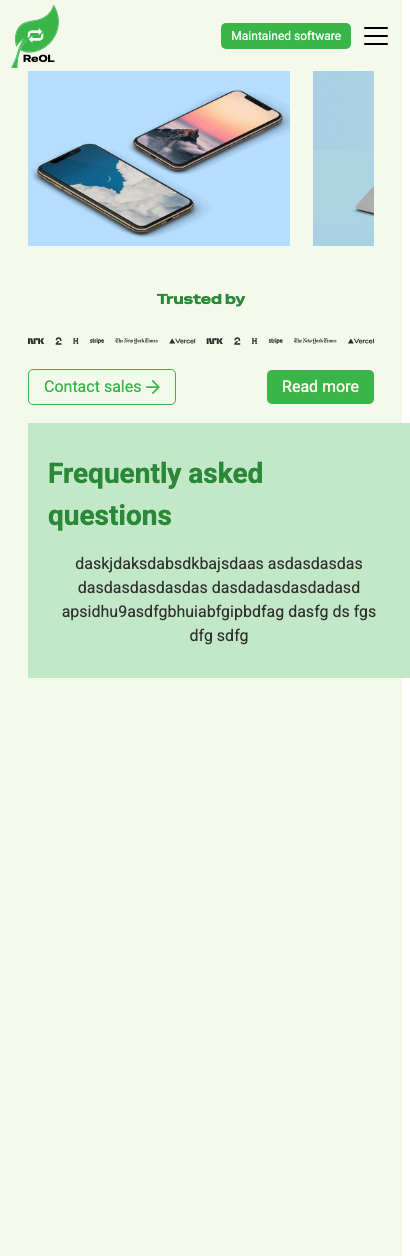
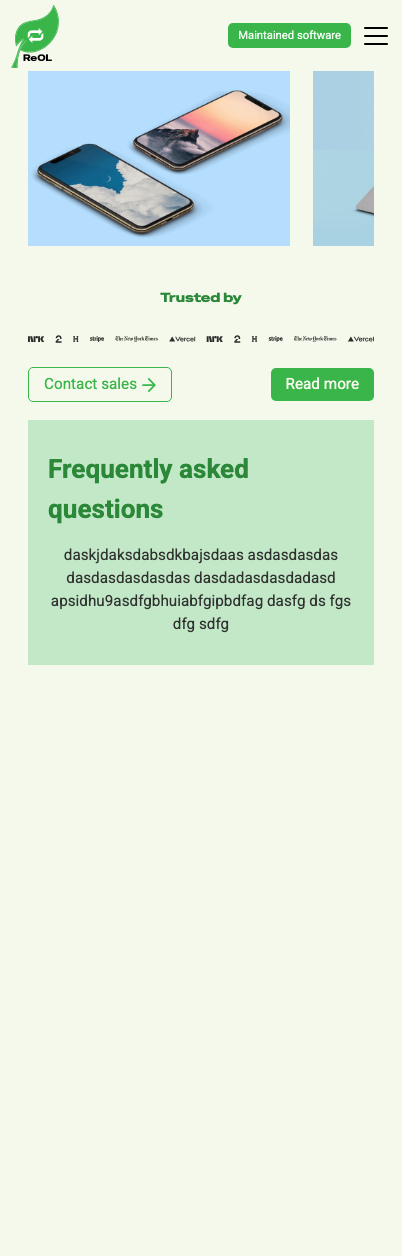
fix: responsive FAQ box with clamp font sizes

diff --git a/app/app.css b/app/app.css
@@ -8,6 +8,13 @@
   --font-body: "Roboto", sans-serif;
   --font-heading-condensed: "Roboto Condensed", sans-serif;
 
+  --text-xs: clamp(10px, 2.8vw, 12px);
+  --text-sm: clamp(12px, 3.2vw, 14px);
+  --text-base: clamp(14px, 3.8vw, 16px);
+  --text-heading-lg: clamp(22px, 7vw, 29px);
+  --text-logo-sm: clamp(8px, 2.3vw, 10.07px);
+  --text-faq-heading: clamp(22px, 6.5vw, 28px);
+
   --color-green-light: #F5F9EB;
   --color-green-normal: #39B54A;
   --color-green-dark: #2B8838;

diff --git a/app/home/components/faq.tsx b/app/home/components/faq.tsx
@@ -1,10 +1,10 @@
 export default function Faq() {
   return (
-    <section className="mx-auto flex w-[382px] flex-col items-center gap-[15px] bg-green-light-active px-[20px] py-[30px]">
-      <h2 className="font-body text-[28px] font-bold text-green-dark">
+    <section className="mx-auto flex w-full max-w-[382px] flex-col items-center gap-[15px] bg-green-light-active px-[20px] py-[30px]">
+      <h2 className="font-body text-faq-heading font-bold text-green-dark">
         Frequently asked questions
       </h2>
-      <p className="w-[329.95px] text-center font-body text-base text-font-muted">
+      <p className="w-full text-center font-body text-base text-font-muted">
         daskjdaksdabsdkbajsdaas asdasdasdas dasdasdasdasdas dasdadasdasdadasd apsidhu9asdfgbhuiabfgipbdfag dasfg ds fgs dfg sdfg
       </p>
     </section>

diff --git a/app/home/components/header.tsx b/app/home/components/header.tsx
@@ -20,7 +20,7 @@ export default function Header({ onMenuToggle }: HeaderProps) {
             style={{ width: 20.13, height: 20.13, left: 15.43, top: 23.49 }}
           />
           <span
-            className="absolute font-logo text-[10.07px] leading-none text-black"
+            className="absolute font-logo text-logo-sm leading-none text-black"
             style={{ left: 12.92, top: 52.3 }}
           >
             ReOL

diff --git a/app/home/components/info-card.tsx b/app/home/components/info-card.tsx
@@ -6,7 +6,7 @@ interface InfoCardProps {
 export default function InfoCard({ title, body }: InfoCardProps) {
   return (
     <div className="relative mx-auto h-[389px] w-[382px] bg-green-light-active">
-      <h3 className="absolute left-[82px] top-[31px] font-heading text-[29px] text-font-dark">
+      <h3 className="absolute left-[82px] top-[31px] font-heading text-heading-lg text-font-dark">
         {title}
       </h3>
 